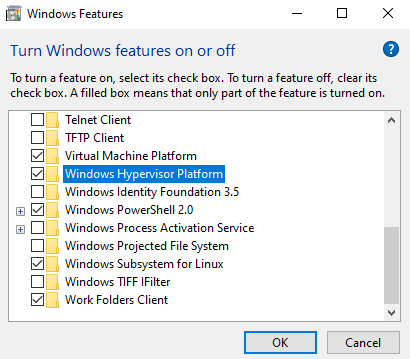
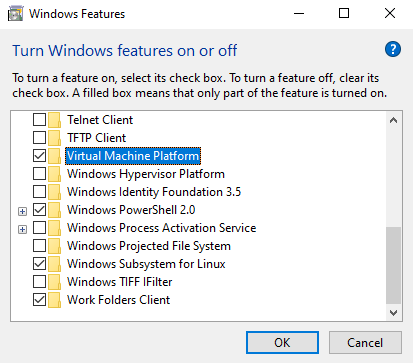
UPDATE readme.mx

diff --git a/README.md b/README.md
@@ -64,17 +64,16 @@ First, you must be running Windows 10 64bits version 2004 or higher (Build 19041
 
 If you have an older version, update your system with Windows Update.
 
-You need to have several Windows functionalities installed before using WSL. To install them, select Windows Logo key, type **Windows Features** and enter. This window should open :
+You need to have a Windows functionality installed before using WSL. To install it, select Windows Logo key, type **Windows Features** and enter. This window should open :
 
 ![bg fit right](./img/features.png)
 
-Make sure to install both **Virtual Machine Platform** and **Windows Hypervisor Platform**. After this, you must restart your Windows system.
+Make sure to install **Virtual Machine Platform**. After this, you must restart your Windows system.
 
-Or you can type this command in a prompt with administrator privilgees to install it :
+Or you can type this command in a prompt with administrator privileges to install it :
 
 ```Powershell
 dism.exe /online /enable-feature /featurename:VirtualMachinePlatform /all /norestart
-dism.exe /online /enable-feature /featurename:WindowsHypervisorPlatform /all /norestart
 ```
 
 Make sure to restart the system afterwards.
